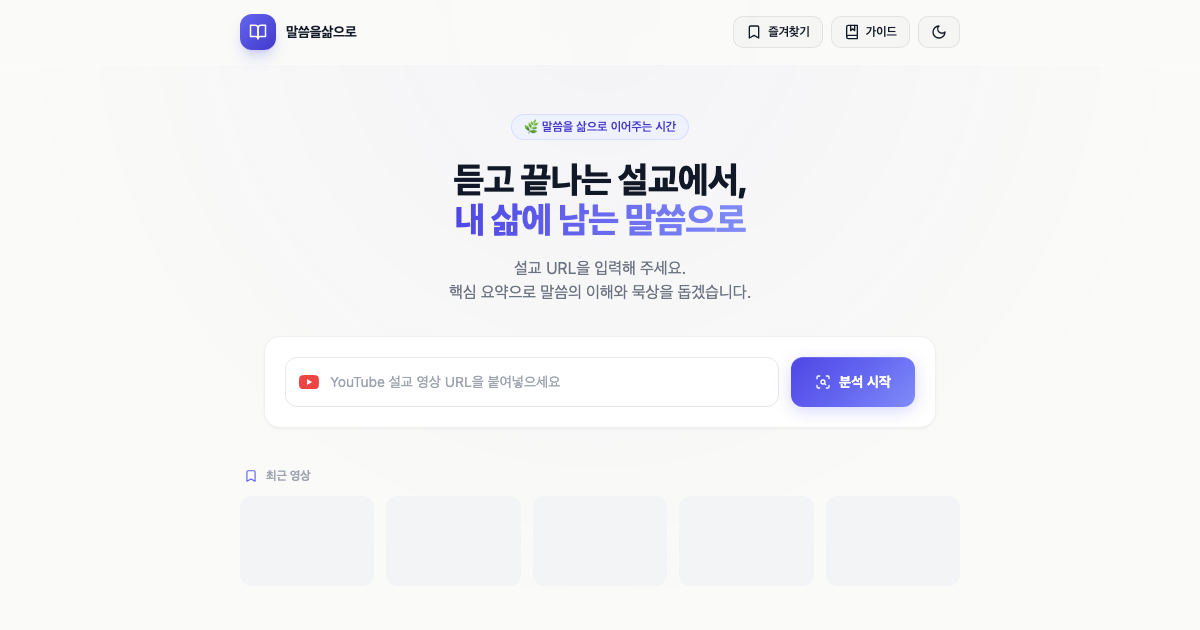
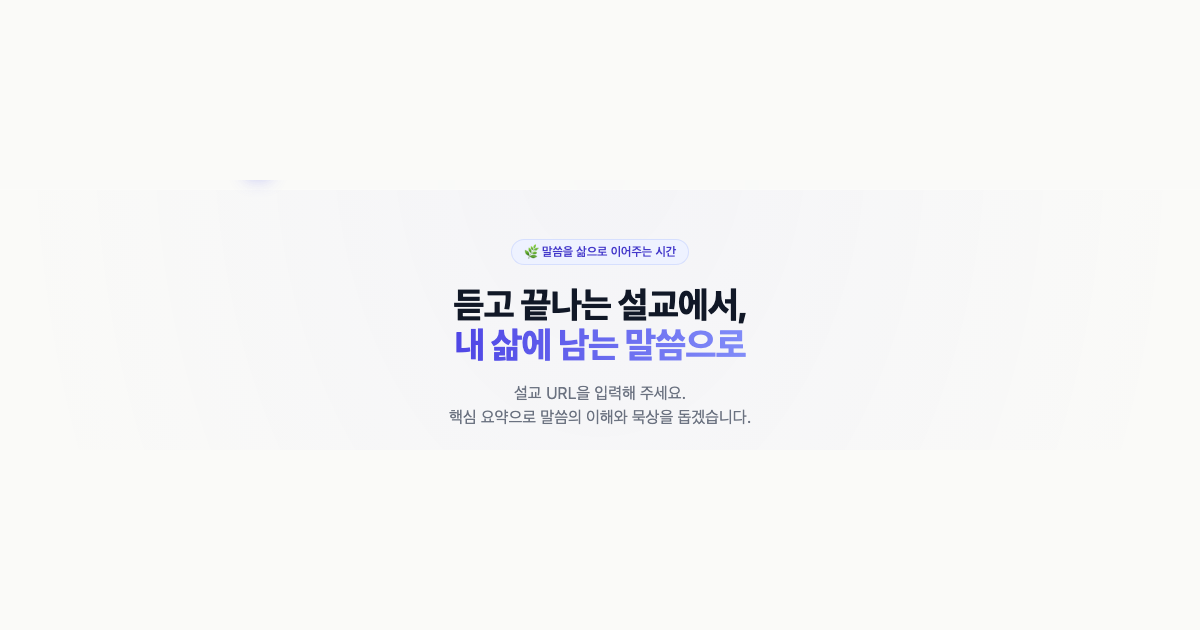
OG 이미지 텍스트 영역만 크롭, 카카오톡 미리보기 수정
- OG 이미지를 히어로 텍스트 영역만 크롭하여 교체 (1200x630)
- og:image:width, og:image:height 메타태그 추가
- 중복 meta description 태그 제거

diff --git a/index.html b/index.html
@@ -11,6 +11,8 @@
   <meta property="og:title" content="말씀을삶으로 — 설교 요약 도우미">
   <meta property="og:description" content="설교 URL을 입력하면 핵심 요약으로 말씀의 이해와 묵상을 돕습니다.">
   <meta property="og:image" content="https://gracebrief.vercel.app/images/og-image.png">
+  <meta property="og:image:width" content="1200">
+  <meta property="og:image:height" content="630">
   <meta property="og:url" content="https://gracebrief.vercel.app">
 
   <!-- Twitter Card -->
@@ -33,7 +35,6 @@
     }
   })();
   </script>
-  <meta name="description" content="설교 URL을 입력하면 핵심 요약으로 말씀의 이해와 묵상을 돕습니다.">
 
   <!-- Tailwind CSS -->
   <script src="https://cdn.tailwindcss.com"></script>
